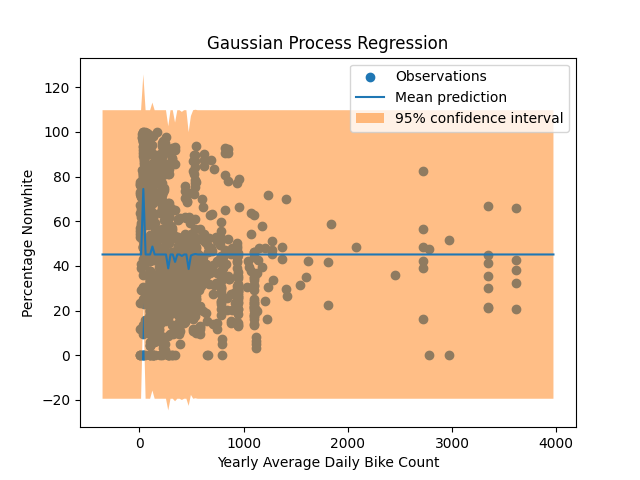
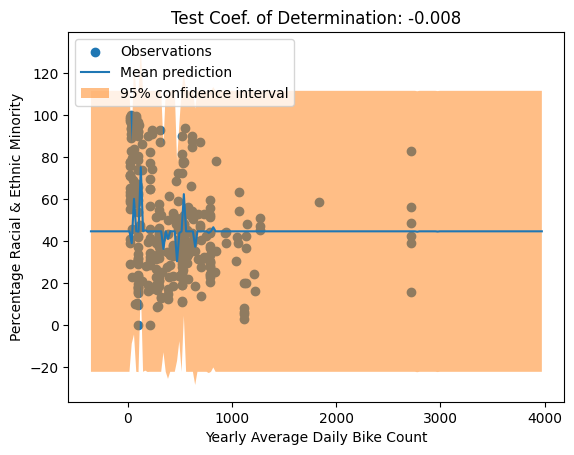
All Pairs and Chaining

diff --git a/comp_graph_completion.py b/comp_graph_completion.py
@@ -1,3 +1,4 @@
+import itertools
 from pathlib import Path
 import pickle
 
@@ -53,7 +54,7 @@ def load_gp(fname: str):
     return pickle.load(open(Path("./models") / Path(fname), "rb"))
 
 
-def vis_gp(X: np.ndarray, y, xlabel, ylabel, X_lin, mean_pred, std_pred, fname):
+def vis_gp(X: np.ndarray, y, xlabel, ylabel, X_lin, mean_pred, std_pred, score, fname):
     plt.scatter(X, y, label="Observations")
     plt.plot(X_lin, mean_pred, label="Mean prediction")
     plt.fill_between(
@@ -66,8 +67,8 @@ def vis_gp(X: np.ndarray, y, xlabel, ylabel, X_lin, mean_pred, std_pred, fname):
     plt.legend()
     plt.xlabel(xlabel)
     plt.ylabel(ylabel)
-    _ = plt.title("Gaussian Process Regression")
-    plt.savefig(Path("./plots") / Path(fname))
+    _ = plt.title(f"Test Coef. of Determination: {score:.3f}")
+    plt.savefig(Path("./plots") / Path(fname), bbox_inches='tight')
     plt.close()
 
 
@@ -86,20 +87,19 @@ df_dict = {
 
 
 if __name__ == "__main__":
-    experiments = [
-        ("svi", "minority", "svi", "pov"),
-        ("svi", "minority", "svi", "pov150"),
-        ("svi", "minority", "aq", "co"),
-        ("bike", "count", "svi", "minority"),
-        ("bike", "count", "svi", "pov"),
-        ("bike", "count", "svi", "pov150"),
-        ("svi", "minority", "bike", "count"),
-        ("svi", "pov", "bike", "count"),
+    dataset_and_col = [
+        ("svi", "minority"),
+        ("svi", "pov"),
         ("svi", "pov150"),
+        ("aq", "co"),
+        ("bike", "count"),
     ]
+    experiments = [(*d_c_1, *d_c_2) for d_c_1, d_c_2 in
+                   itertools.permutations(dataset_and_col, r=2)]
+    exp_to_scores = {}
     for experiment in experiments:
         dataset1, col_name1, dataset2, col_name2 = experiment
-        # Use year and tract to merge then grab columns
+        # Use year and tract to merge
         if dataset1 != dataset2:
             X_df = df_dict[dataset1]
             y_df = df_dict[dataset2]
@@ -107,27 +107,50 @@ if __name__ == "__main__":
         # Otherwise just use the shared dataframe
         else:
             merge_df = df_dict[dataset1]
-        X = np.expand_dims(merge_df[col_name1].to_numpy(), axis=1)
-        y = merge_df[col_name2].to_numpy()
         # For each edge of interest, grab subset of rows such that each side of the edge has data
-        mask = np.logical_not(np.logical_or(np.isnan(X)[:, 0], np.isnan(y)))
-        mask_X = X[mask, :]
-        mask_y = y[mask]
-        # Divide data into train and test based on time
+        merge_df = merge_df[["year", col_name1, col_name2]].dropna(axis=0)
+        # Skip rest of loop if not enough overlap
+        if len(merge_df) == 0 or np.all(merge_df["year"] == max(merge_df["year"])):
+            continue
 
-        # Fit GP on the subset (grid search with validation set for kernel hyperparameters?)
+        # Divide data into train and test based on time
+        train_df = merge_df[merge_df["year"] < max(merge_df["year"])]
+        test_df = merge_df[merge_df["year"] == max(merge_df["year"])]
+        # Grab columns of interest
+        X_train = np.expand_dims(train_df[col_name1].to_numpy(), axis=1)
+        X_test = np.expand_dims(test_df[col_name1].to_numpy(), axis=1)
+        y_train = train_df[col_name2].to_numpy()
+        y_test = test_df[col_name2].to_numpy()
+
+        # Fit GP on the train subset
         gp_fname = comparison_fname(dataset1, col_name1, dataset2, col_name2, "dump")
         if not (Path("./models") / Path(gp_fname)).exists():
-            gp = fit_gp(mask_X, mask_y)
+            gp = fit_gp(X_train, y_train)
             save_gp(gp, gp_fname)
         # or load the GP from a previous run
         else:
             gp = load_gp(gp_fname)
 
         # Output predictions
-        X_lin = vis_linspace(mask_X)
+        X_lin = vis_linspace(merge_df[col_name1])
         mean_pred, std_pred = pred_gp(X_lin[:, None], gp)
+        score = gp.score(X_test, y_test)
         # Visualize GP
-        vis_gp(mask_X, mask_y, col_names_to_vis_names[col_name1], col_names_to_vis_names[col_name2],
-               X_lin, mean_pred, std_pred,
+        vis_gp(X_test, y_test, col_names_to_vis_names[col_name1], col_names_to_vis_names[col_name2],
+               X_lin, mean_pred, std_pred, score,
                comparison_fname(dataset1, col_name1, dataset2, col_name2, "png"))
+        # Save score
+        exp_to_scores[experiment] = score
+
+    # Highlight scores greater than 0
+    for exp, score in exp_to_scores.items():
+        if score > 0:
+            dataset1, col_name1, dataset2, col_name2 = exp
+            print(f"{dataset1}_{col_name1}->{dataset2}_{col_name2} = {score}")
+    # What gets printed as of 4/14/25:
+    # svi_minority->svi_pov = 0.44056146329498413
+    # svi_minority->svi_pov150 = 0.4085251814666093
+    # svi_minority->bike_count = 0.06622401563512614
+    # svi_pov->svi_minority = 0.48306124747153356
+    # svi_pov150->svi_minority = 0.44676794127573227
+    # aq_co->bike_count = 0.039877147364709264

diff --git a/chained_pred.py b/chained_pred.py
@@ -1,0 +1,48 @@
+from pathlib import Path
+
+import matplotlib.pyplot as plt
+import numpy as np
+import pandas as pd
+
+from comp_graph_completion import col_names_to_vis_names, comparison_fname, load_gp, pred_gp
+import data_load_bike
+import data_load_svi
+
+
+if __name__ == "__main__":
+    merge_df_full = pd.merge(data_load_svi.load(), data_load_bike.load(), on=["year", "tract"])
+    for col in ["pov", "pov150"]:
+        merge_df = merge_df_full[["year", "count", "minority", col]].dropna(axis=0)
+        # Divide data into train and test based on time
+        test_df = merge_df[merge_df["year"] == max(merge_df["year"])]
+        # Grab columns of interest
+        X_test_1 = np.expand_dims(test_df[col].to_numpy(), axis=1)
+        X_test_2 = np.expand_dims(test_df["minority"].to_numpy(), axis=1)
+        y_test_2 = test_df["count"].to_numpy()
+        # Load GPs
+        gp_1 = load_gp(comparison_fname("svi", col, "svi", "minority", "dump"))
+        gp_2 = load_gp(comparison_fname("svi", "minority", "bike", "count", "dump"))
+        # Chained GP predictions
+        mean_pred_1, _ = pred_gp(X_test_1, gp_1)
+        mean_pred_2, std_pred_2 = pred_gp(mean_pred_1[:, None], gp_2)
+        # Calculate score
+        u = ((y_test_2 - mean_pred_2) ** 2).sum()
+        v = ((y_test_2 - y_test_2.mean()) ** 2).sum()
+        score = 1 - u/v
+        # Visualize
+        plt.scatter(X_test_2, y_test_2, label="Observations")
+        sort_ind = np.argsort(mean_pred_1)
+        plt.plot(mean_pred_1[sort_ind], mean_pred_2[sort_ind], label="Mean prediction")
+        plt.fill_between(
+            mean_pred_1[sort_ind],
+            mean_pred_2[sort_ind] - 1.96 * std_pred_2[sort_ind],
+            mean_pred_2[sort_ind] + 1.96 * std_pred_2[sort_ind],
+            alpha=0.5,
+            label=r"95% confidence interval",
+        )
+        plt.legend()
+        plt.xlabel(col_names_to_vis_names["minority"])
+        plt.ylabel(col_names_to_vis_names["count"])
+        _ = plt.title(f"Chained Test Coef. of Determination: {score:.3f}")
+        plt.savefig(Path("./plots") / Path(f"chain_{col}_minority_count.png"), bbox_inches='tight')
+        plt.close()

diff --git a/data_load_svi.py b/data_load_svi.py
@@ -45,7 +45,7 @@ svi_file_to_col_names_to_svi_col = {
 col_names_to_vis_names = {
     "pov": "Percentage Below Poverty",
     "pov150": "Percentage Below 150% Poverty",
-    "minority": "Percentage Nonwhite",
+    "minority": "Percentage Racial & Ethnic Minority",
 }
 
 
